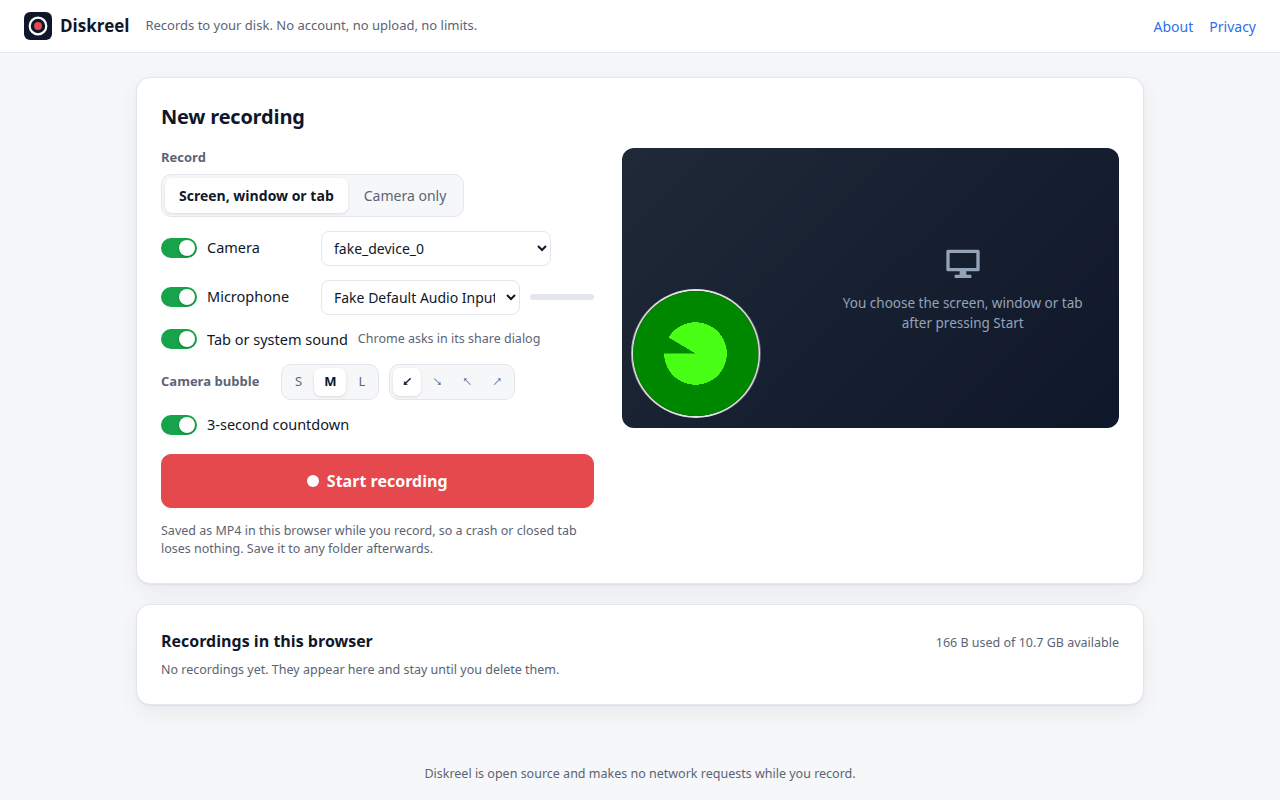
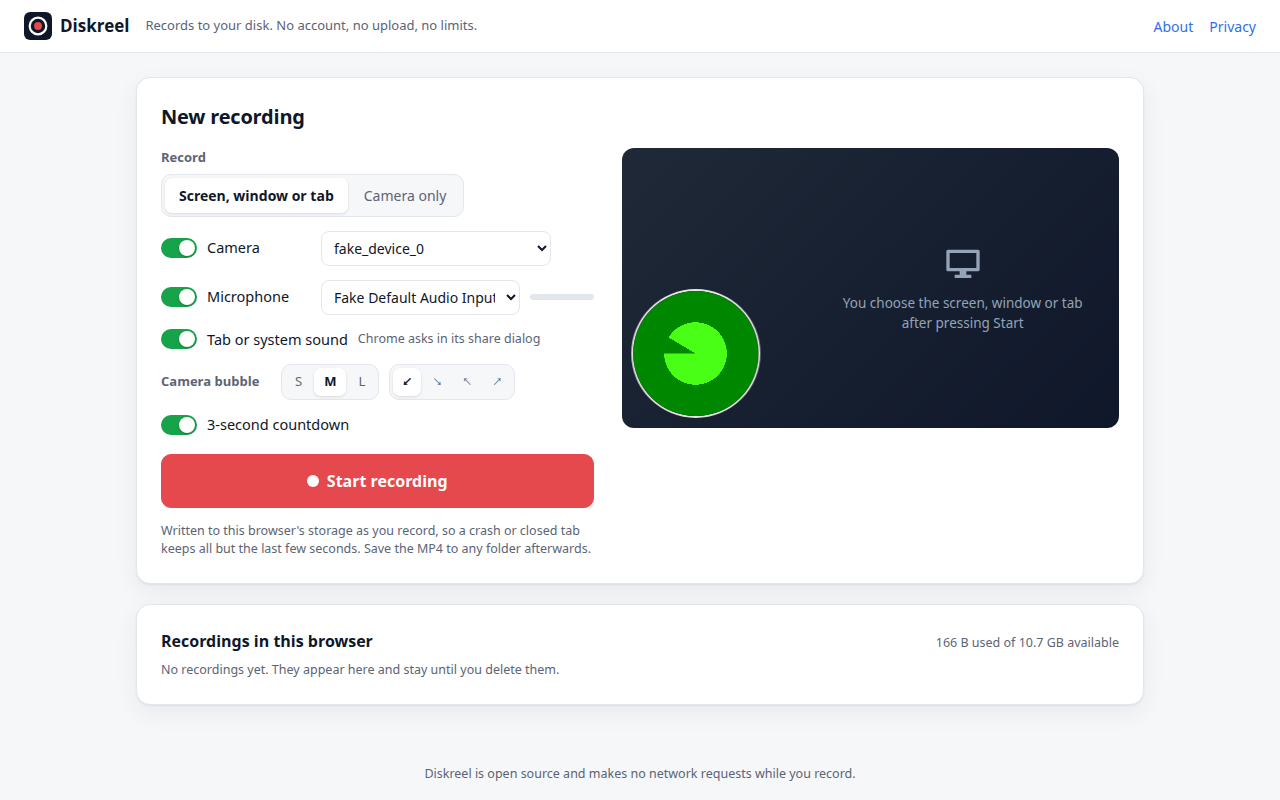
Honest crash-safety wording, refreshed screenshots, faster CI ffmpeg, VENTURE.md status

Changed region(s): [[0.125, 0.6562, 0.4688, 0.7188]]

diff --git a/src/app/index.html b/src/app/index.html
@@ -69,7 +69,7 @@
         </div>
 
         <button id="start" class="btn rec big" type="button"><i class="dot"></i>Start recording</button>
-        <p class="fine">Saved as MP4 in this browser while you record, so a crash or closed tab loses nothing. Save it to any folder afterwards.</p>
+        <p class="fine">Written to this browser's storage as you record, so a crash or closed tab keeps all but the last few seconds. Save the MP4 to any folder afterwards.</p>
       </div>
 
       <div class="preview" id="preview" data-corner="bottom-left" data-size="medium">

diff --git a/VENTURE.md b/VENTURE.md
@@ -1,13 +1,13 @@
 ---
 slug: local-screen-recorder
-stage: idea
+stage: building
 priority: 3
-url:
-repo:
+url: https://janwan2003.github.io/local-screen-recorder/
+repo: https://github.com/janwan2003/local-screen-recorder
 updated: 2026-11-20
 ---
 
-# local-screen-recorder
+# local-screen-recorder (product name: Diskreel)
 
 ## Thesis
 
@@ -91,22 +91,41 @@ compete on concrete points:
 
 ## Status
 
-Idea only. Nothing built. Evidence above: live curl of 14 Chrome Web Store listings on
-2026-11-20; web search for free-plan limits (Atlassian docs, CostBench, Capterra) and
-search volume (Semrush snapshots).
+**Diskreel 0.1.0 is built and published as a web app; the extension is packaged but not in a store.**
+
+What exists (all verified by `pnpm e2e` in Playwright Chromium 159 on janeks-pc, 2026-11-20, with fake camera/mic/screen):
+- Recorder web app at https://janwan2003.github.io/local-screen-recorder/app/ and the same app as an MV3 extension
+  (`dist/diskreel-0.1.0.zip`, 228 KB, no permissions, Alt+Shift+R). Install from the zip is documented on the site.
+- Screen/window/tab capture with a mirrored round webcam bubble (3 sizes, 4 corners), camera-only mode,
+  mic + tab/system audio mixed, mic level meter, 3-s countdown, pause/resume, Document PiP floating controls.
+- Encoding in a worker: H.264 video (VP9/AV1/VP8 fallback), AAC audio where the browser encodes it, else Opus,
+  into a fragmented MP4 in OPFS. Spike result: Linux Chromium encodes H.264 High (`avc1.640028`) but not AAC.
+- Crash safety: e2e closes the tab 5 s into a recording; 4.04 s survived, playable (ffprobe), and reopens in the UI.
+- Review: player, trim handles (copy, not re-encode), Save MP4 (regular fast-start MP4, checked: `moov` before media,
+  no `moof`, decodes with ffmpeg -xerror), Save WebM (VP9+Opus), rename, delete, library listing with storage use.
+- e2e output on that run: 4 s recording with a 1.5 s pause → 4.17 s file, h264 1920×1080 + opus; trim 25–75 % → 2.09 s;
+  WebM 4.17 s vp9+opus; camera-only 1280×720, no audio track; extension recording 2.57 s h264+opus; no console errors.
+- Unit tests: 7 (`pnpm test`, `test/lib.test.mjs`): sizing, bubble geometry, formatting, names, trim clamping.
+- Screenshots checked at 1280×800 and 390×844 (`node scripts/screenshots.js`): app and landing page.
+- Site: landing page (features, free-plan comparison citing Loom's own FAQ, install steps, FAQ), privacy page,
+  robots.txt, sitemap.xml, OG image. Deployed by GitHub Actions (`.github/workflows/ci.yml`) after unit + e2e tests.
+
+Not covered yet: real (non-fake) devices and a real screen picker were not exercised; AAC output was not
+tested (no AAC encoder on Linux); system audio capture untested; long recordings (>1 min) and CPU use not measured;
+Windows/macOS untested. Evidence re-check: live curl 2026-11-20 confirmed Loom 8M users / 2.7, Screencastify 9M / 3.5,
+Screenity 300K / 3.7.
 
 ## Next steps
 
-1. Spike: record tab+mic and screen+webcam, then encode to MP4 with WebCodecs in an
-   offscreen document. Measure CPU and file size for a 10-minute 1080p recording on
-   janeks-pc. This decides whether MP4-first is viable. If it is not, drop to p2.
-2. Read the 1 to 2-star reviews of Loom, Screencastify and Screenity (CWS review pages
-   render client-side, so use a browser) and list the top 5 complaints with counts.
-   Put the list in this file.
-3. Pick a distinct name (avoid every name in the table).
-4. Build the recorder, crash-safe chunk storage, then the editor.
-5. Static web app version on GitHub Pages with 4 to 6 landing pages.
-6. Publishing needs the Chrome Web Store developer account (already in OPERATOR-INBOX.md).
+1. Upload the extension to the Chrome Web Store as a draft with the API (enabled per OPERATOR-INBOX "Resolved";
+   see `ventures/save-image-format/scripts/cws-upload.py` for a working example), write `store/chrome-privacy.md`
+   and 1280×800 store screenshots, add one inbox line. Also submit to Edge when that account exists.
+2. Measure a 10-minute 1080p recording on janeks-pc (CPU, file size, dropped frames); fix if the worker falls behind.
+3. Verify Search Console for the Pages site and submit the sitemap (`GSC_REFRESH_TOKEN`).
+4. 4-6 landing pages for search: "screen recorder no watermark", "record screen to MP4", "screen recorder for
+   Chromebook/teachers", "record a tab with audio".
+5. Editor features: cut a middle section, crop, speed-up, silence removal, GIF export (the thesis' editor list).
+6. Read 1-2-star reviews of Loom/Screencastify/Screenity in a browser and list top complaints (old step 2, not done).
 
 ## Monetization plan
 
@@ -120,3 +139,9 @@ leave the incumbents.
 - 2026-11-20 scout: created idea. Evidence: live curl of Chrome Web Store search "screen
   recorder" and 14 listings; web search for Loom/Screencastify plan limits and Semrush
   keyword snapshots.
+- 2026-11-20 builder: re-checked evidence (live curl of 3 CWS listings), ran a codec spike (H.264 yes, AAC no on
+  Linux Chromium), named it Diskreel, built recorder web app + MV3 extension + site, unit tests (7 pass) and
+  real-browser e2e (web app + extension pass, crash test found and fixed a 1 MB write buffer that left short
+  interrupted recordings empty; e2e also caught a `hidden` overlay bug). Published repo + GitHub Pages: CI run
+  44796641050 green (unit + e2e + deploy); live smoke test on the Pages URL recorded 0:02 1920×1080 H.264+Opus, no
+  console errors. CI's apt ffmpeg install took 17 min, replaced with a static ffmpeg download.
